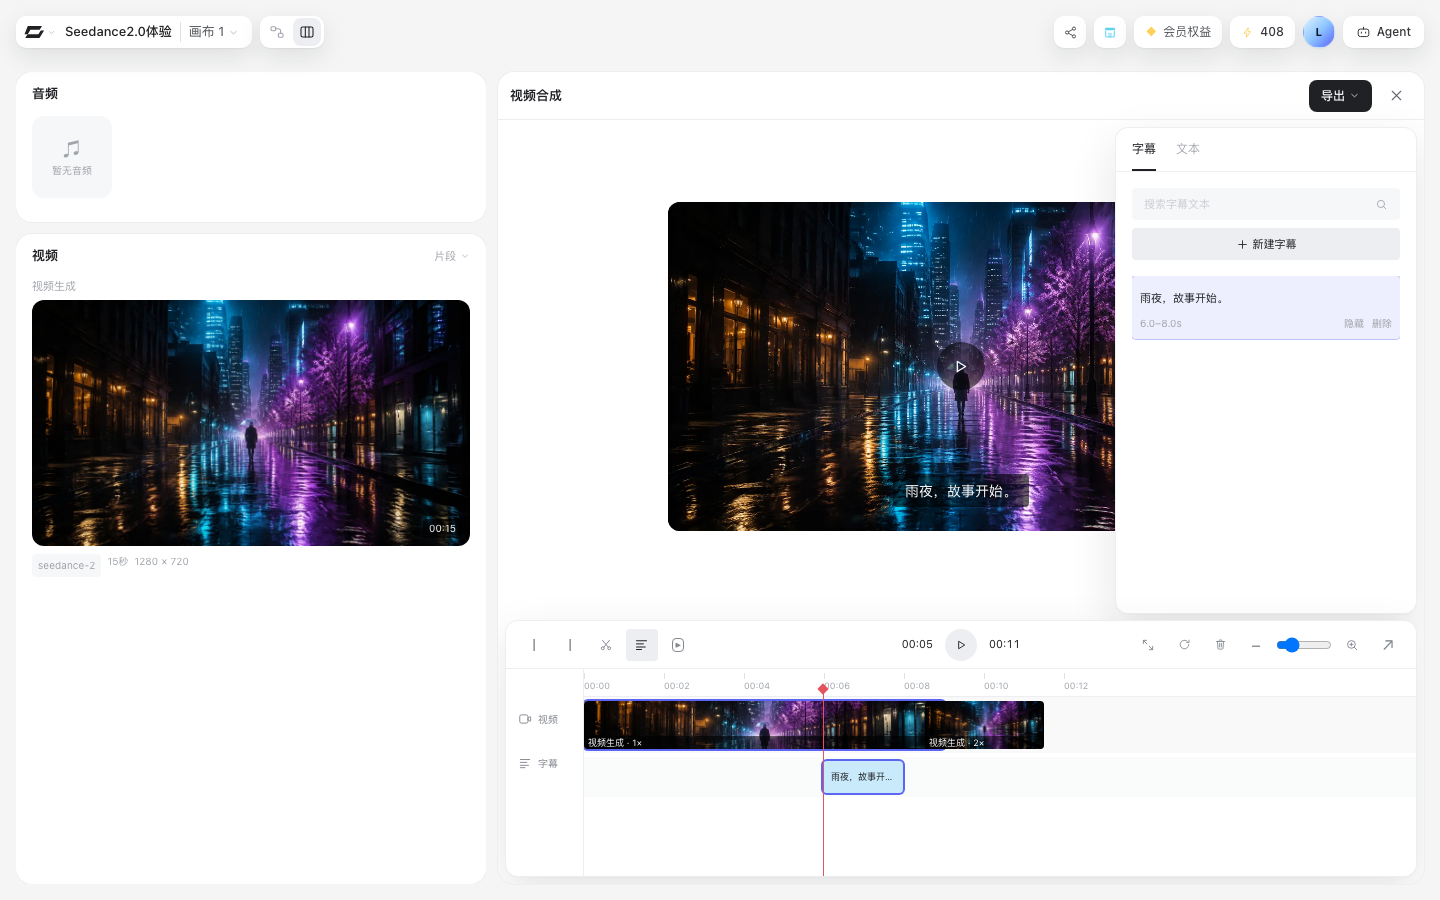
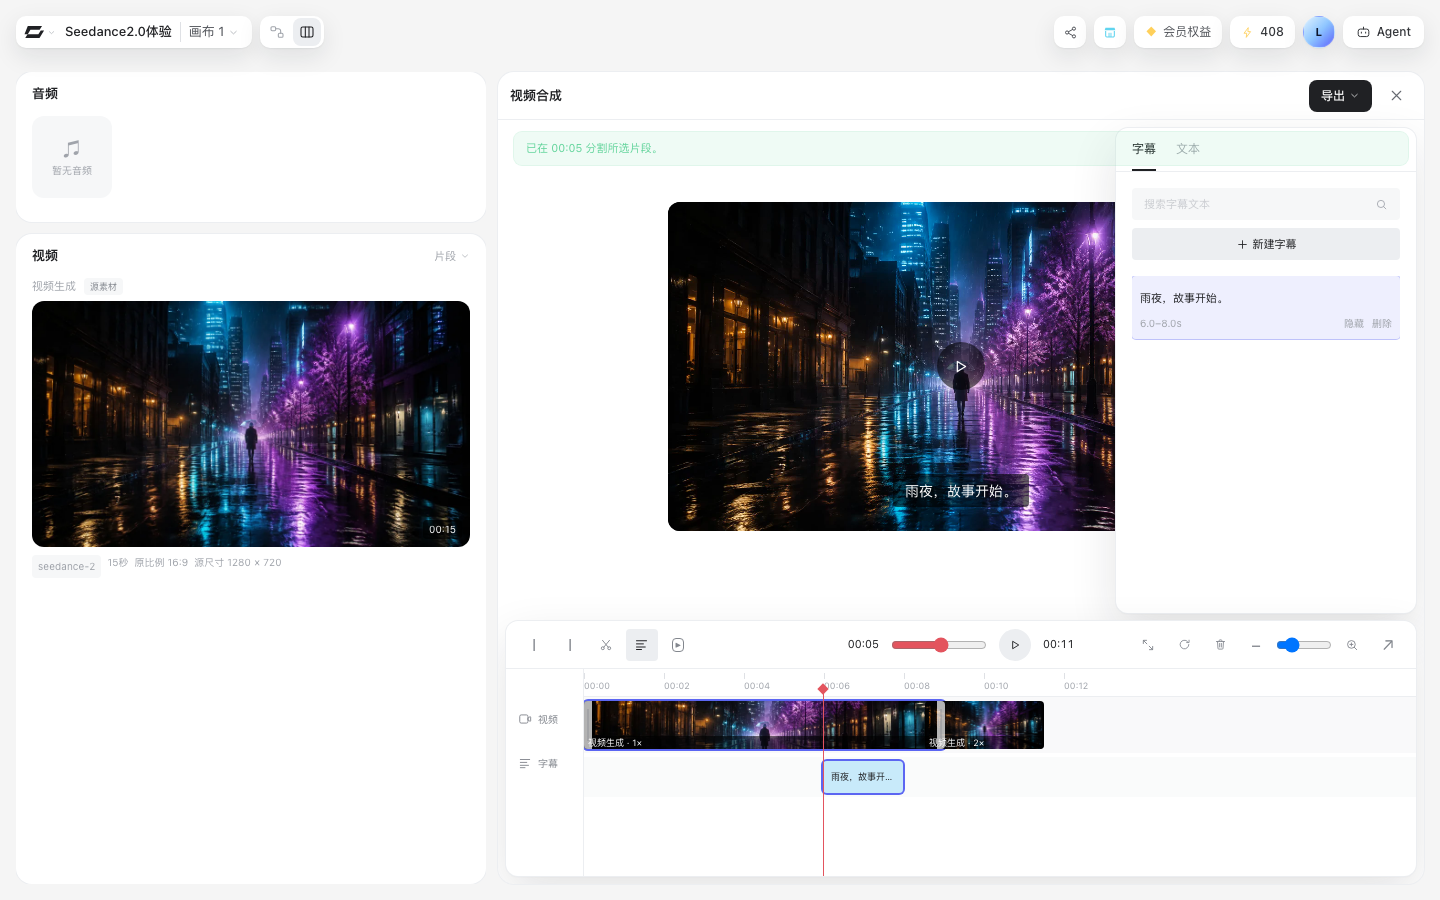
feat: add interactive video trim handles

diff --git a/src/components/storyboard/ClipEditor.tsx b/src/components/storyboard/ClipEditor.tsx
@@ -77,6 +77,12 @@ interface TimelineFeedback {
   message: string
 }
 
+interface TrimPreview {
+  clipId: string
+  inPoint: number
+  outPoint: number
+}
+
 const PX_PER_SECOND = 40
 const TIMELINE_HEIGHT = 255
 const PLAYHEAD_STEP_SECONDS = 0.1
@@ -154,6 +160,31 @@ function compositeNodeOf(document: WorkflowDocument): WorkflowNode | null {
 
 function clipSeconds(clip: CompositeClip) {
   return (clip.outPoint - clip.inPoint) / clip.speed
+}
+
+export type TrimEdge = 'in' | 'out'
+
+/** Convert a timeline drag into source-space trim points. */
+export function trimPointsForDrag(
+  clip: CompositeClip,
+  edge: TrimEdge,
+  deltaPixels: number,
+  pixelsPerSecond: number,
+): Pick<CompositeClip, 'inPoint' | 'outPoint'> {
+  if (!Number.isFinite(deltaPixels) || !Number.isFinite(pixelsPerSecond) || pixelsPerSecond <= 0) {
+    return { inPoint: clip.inPoint, outPoint: clip.outPoint }
+  }
+  const sourceDelta = (deltaPixels / pixelsPerSecond) * clip.speed
+  if (edge === 'in') {
+    return {
+      inPoint: Math.max(0, Math.min(clip.outPoint - MIN_CLIP_SECONDS, clip.inPoint + sourceDelta)),
+      outPoint: clip.outPoint,
+    }
+  }
+  return {
+    inPoint: clip.inPoint,
+    outPoint: Math.max(clip.inPoint + MIN_CLIP_SECONDS, Math.min(clip.durationSeconds, clip.outPoint + sourceDelta)),
+  }
 }
 
 export function playheadValueForKey(current: number, key: string, total: number): number | null {
@@ -275,7 +306,7 @@ export function ClipEditor({
     [allSources],
   )
   const compositeNode = useMemo(() => compositeNodeOf(workflow), [workflow])
-  const timeline = useMemo(
+  const persistedTimeline = useMemo(
     () => readCompositeDocument(compositeNode?.data.extra, allSources),
     [allSources, compositeNode?.data.extra],
   )
@@ -287,8 +318,9 @@ export function ClipEditor({
   const [subtitleTab, setSubtitleTab] = useState<SubtitleTab>('subtitle')
   const [subtitleSearch, setSubtitleSearch] = useState('')
   const [subtitleDrafts, setSubtitleDrafts] = useState<Record<string, string>>({})
-  const [playhead, setPlayhead] = useState(timeline.playheadSeconds)
+  const [playhead, setPlayhead] = useState(persistedTimeline.playheadSeconds)
   const [playing, setPlaying] = useState(false)
+  const [trimPreview, setTrimPreview] = useState<TrimPreview | null>(null)
   const [exportOpen, setExportOpen] = useState(false)
   const [rendering, setRendering] = useState(false)
   const [elapsed, setElapsed] = useState(0)
@@ -302,6 +334,16 @@ export function ClipEditor({
   const trackViewportRef = useRef<HTMLDivElement>(null)
   const exportRef = useRef<HTMLDivElement>(null)
   const aliveRef = useRef(true)
+
+  const timeline = useMemo(() => {
+    if (!trimPreview) return persistedTimeline
+    return {
+      ...persistedTimeline,
+      clips: persistedTimeline.clips.map((clip) => clip.id === trimPreview.clipId
+        ? { ...clip, inPoint: trimPreview.inPoint, outPoint: trimPreview.outPoint }
+        : clip),
+    }
+  }, [persistedTimeline, trimPreview])
 
   const selectedClip = timeline.clips.find((clip) => clip.id === selectedClipId) ?? null
   const selectedClipIndex = selectedClip ? timeline.clips.findIndex((clip) => clip.id === selectedClip.id) : -1
@@ -356,6 +398,7 @@ export function ClipEditor({
   const close = useCallback(() => {
     setPlaying(false)
     setExportOpen(false)
+    setTrimPreview(null)
     void persist(
       (document) => ({ ...document, playheadSeconds: Math.min(compositeDuration(document), playhead) }),
       '保存视频编辑位置',
@@ -560,6 +603,36 @@ export function ClipEditor({
         edge === 'out' ? sourceSeconds : current.outPoint,
       )
     }, edge === 'in' ? '设置片段入点' : '设置片段出点')
+  }
+
+  const previewTrim = (clipId: string, edge: TrimEdge, deltaPixels: number) => {
+    const clip = persistedTimeline.clips.find((item) => item.id === clipId)
+    if (!clip) return
+    const points = trimPointsForDrag(clip, edge, deltaPixels, pixelsPerSecond)
+    setTrimPreview({ clipId, ...points })
+  }
+
+  const finishTrim = () => {
+    const preview = trimPreview
+    setTrimPreview(null)
+    if (!preview) return
+    void persist(
+      (document) => setClipTrim(document, preview.clipId, preview.inPoint, preview.outPoint),
+      '拖拽裁切视频片段',
+    )
+  }
+
+  const nudgeTrim = (clipId: string, edge: TrimEdge, deltaSeconds: number) => {
+    void persist((document) => {
+      const current = document.clips.find((clip) => clip.id === clipId)
+      if (!current) return document
+      return setClipTrim(
+        document,
+        clipId,
+        edge === 'in' ? current.inPoint + deltaSeconds * current.speed : current.inPoint,
+        edge === 'out' ? current.outPoint + deltaSeconds * current.speed : current.outPoint,
+      )
+    }, '键盘调整片段裁切')
   }
 
   const splitSelected = () => {
@@ -879,6 +952,9 @@ export function ClipEditor({
             onSplit={splitSelected}
             onTrimIn={() => trimSelectedAtPlayhead('in')}
             onTrimOut={() => trimSelectedAtPlayhead('out')}
+            onTrimPreview={previewTrim}
+            onTrimEnd={finishTrim}
+            onTrimNudge={nudgeTrim}
             onReorder={(clipId, targetIndex) => void persist((document) => {
               let next = document
               let currentIndex = next.clips.findIndex((clip) => clip.id === clipId)
@@ -1633,6 +1709,9 @@ function TimelinePanel({
   onSplit,
   onTrimIn,
   onTrimOut,
+  onTrimPreview,
+  onTrimEnd,
+  onTrimNudge,
   onReorder,
   onDelete,
   onZoom,
@@ -1660,6 +1739,9 @@ function TimelinePanel({
   onSplit: () => void
   onTrimIn: () => void
   onTrimOut: () => void
+  onTrimPreview: (clipId: string, edge: TrimEdge, deltaPixels: number) => void
+  onTrimEnd: () => void
+  onTrimNudge: (clipId: string, edge: TrimEdge, deltaSeconds: number) => void
   onReorder: (clipId: string, targetIndex: number) => void
   onDelete: () => void
   onZoom: (zoom: number) => void
@@ -1667,9 +1749,39 @@ function TimelinePanel({
   onDrop: (event: DragEvent) => void
 }) {
   const selection = Boolean(selectedClipId || selectedAudioId || selectedSubtitleId)
+  const trimDragRef = useRef<{ clipId: string; edge: TrimEdge; startX: number; pointerId: number } | null>(null)
   const seekAt = (event: MouseEvent<HTMLDivElement>) => {
     const bounds = event.currentTarget.getBoundingClientRect()
     onSeek((event.clientX - bounds.left + event.currentTarget.scrollLeft) / pixelsPerSecond)
+  }
+  const beginTrim = (event: React.PointerEvent<HTMLSpanElement>, clipId: string, edge: TrimEdge) => {
+    event.preventDefault()
+    event.stopPropagation()
+    trimDragRef.current = { clipId, edge, startX: event.clientX, pointerId: event.pointerId }
+    event.currentTarget.setPointerCapture(event.pointerId)
+    onTrimPreview(clipId, edge, 0)
+  }
+  const moveTrim = (event: React.PointerEvent<HTMLSpanElement>) => {
+    const drag = trimDragRef.current
+    if (!drag || drag.pointerId !== event.pointerId) return
+    event.preventDefault()
+    event.stopPropagation()
+    onTrimPreview(drag.clipId, drag.edge, event.clientX - drag.startX)
+  }
+  const endTrim = (event: React.PointerEvent<HTMLSpanElement>) => {
+    const drag = trimDragRef.current
+    if (!drag || drag.pointerId !== event.pointerId) return
+    event.stopPropagation()
+    trimDragRef.current = null
+    if (event.currentTarget.hasPointerCapture(event.pointerId)) event.currentTarget.releasePointerCapture(event.pointerId)
+    onTrimEnd()
+  }
+  const nudgeTrimFromKeyboard = (event: React.KeyboardEvent<HTMLSpanElement>, clipId: string, edge: TrimEdge) => {
+    const direction = event.key === 'ArrowRight' || event.key === 'ArrowUp' ? 1 : event.key === 'ArrowLeft' || event.key === 'ArrowDown' ? -1 : 0
+    if (!direction) return
+    event.preventDefault()
+    event.stopPropagation()
+    onTrimNudge(clipId, edge, direction * 0.1)
   }
   return (
     <section
@@ -1801,7 +1913,7 @@ function TimelinePanel({
                     onSelectClip(clip)
                   }}
                   className={cn(
-                    'absolute top-1 h-12 overflow-hidden rounded ring-2',
+                    'group absolute top-1 h-12 overflow-hidden rounded ring-2',
                     clip.id === selectedClipId ? 'ring-accent' : 'ring-transparent',
                   )}
                   style={{
@@ -1816,6 +1928,32 @@ function TimelinePanel({
                   <span className="absolute inset-x-0 bottom-0 truncate bg-black/55 px-1 text-left text-[9px] text-white">
                     {clip.nodeName} · {clip.speed}×
                   </span>
+                  {(['in', 'out'] as const).map((edge) => (
+                    <span
+                      key={edge}
+                      role="slider"
+                      tabIndex={0}
+                      data-testid={`trim-handle-${edge}-${clip.id}`}
+                      aria-label={`${clip.nodeName}${edge === 'in' ? '入点' : '出点'}`}
+                      aria-valuemin={edge === 'in' ? 0 : clip.inPoint + MIN_CLIP_SECONDS}
+                      aria-valuemax={edge === 'in' ? clip.outPoint - MIN_CLIP_SECONDS : clip.durationSeconds}
+                      aria-valuenow={edge === 'in' ? clip.inPoint : clip.outPoint}
+                      aria-valuetext={`${edge === 'in' ? '入点' : '出点'} ${timeLabel(edge === 'in' ? clip.inPoint : clip.outPoint)}`}
+                      className={cn(
+                        'absolute inset-y-0 z-10 w-2 cursor-ew-resize bg-white/70 opacity-0 shadow-sm transition-opacity group-hover:opacity-100 focus:opacity-100 focus-visible:outline-2 focus-visible:outline-accent',
+                        edge === 'in' ? 'left-0' : 'right-0',
+                        clip.id === selectedClipId && 'opacity-100',
+                      )}
+                      onPointerDown={(event) => beginTrim(event, clip.id, edge)}
+                      onPointerMove={moveTrim}
+                      onPointerUp={endTrim}
+                      onPointerCancel={endTrim}
+                      onKeyDown={(event) => nudgeTrimFromKeyboard(event, clip.id, edge)}
+                      onClick={(event) => event.stopPropagation()}
+                    >
+                      <span className="absolute inset-y-2 left-1/2 w-px -translate-x-1/2 bg-ink-500/70" />
+                    </span>
+                  ))}
                   {clip.transitionAfter && index < timeline.clips.length - 1 && (
                     <span className="absolute right-0 top-0 bg-accent px-1 text-[8px]">◆</span>
                   )}

diff --git a/e2e/video-compositor.spec.ts b/e2e/video-compositor.spec.ts
@@ -210,6 +210,56 @@ test('clip edits persist on the videoComposite node across close and reload', as
   await expect(page.locator('[data-testid^="timeline-clip-"]')).toHaveCount(2)
 })
 
+test('selected clips expose draggable, keyboard-accessible trim handles', async ({ page, request }) => {
+  await openCompositor(page, request)
+  await page
+    .getByTestId('clip-source-video-art_video_01')
+    .getByRole('button', { name: '添加到时间线' })
+    .click()
+
+  const clip = page.locator('[data-testid^="timeline-clip-"]').first()
+  await clip.click()
+  const clipId = (await clip.getAttribute('data-testid'))!.replace('timeline-clip-', '')
+  const inHandle = page.getByTestId(`trim-handle-in-${clipId}`)
+  const outHandle = page.getByTestId(`trim-handle-out-${clipId}`)
+  await expect(inHandle).toHaveAttribute('role', 'slider')
+  await expect(outHandle).toHaveAttribute('aria-valuenow', '15')
+
+  const inBox = await inHandle.boundingBox()
+  expect(inBox).not.toBeNull()
+  if (!inBox) return
+  await page.mouse.move(inBox.x + inBox.width / 2, inBox.y + inBox.height / 2)
+  await page.mouse.down()
+  await page.mouse.move(inBox.x + inBox.width / 2 + 80, inBox.y + inBox.height / 2)
+  await page.mouse.up()
+
+  await expect(inHandle).toHaveAttribute('aria-valuenow', '2')
+  await expect(page.getByRole('spinbutton', { name: '片段入点' })).toHaveValue('2')
+
+  await inHandle.focus()
+  await page.keyboard.press('ArrowLeft')
+  await expect.poll(() => inHandle.getAttribute('aria-valuenow')).toBe('1.9')
+
+  await visualBaseline(page, 'video-compositor-trim-1440x900.png')
+})
+
+test('compositor stacks the source rail above the workspace on compact viewports', async ({ page, request }) => {
+  await page.setViewportSize({ width: 800, height: 900 })
+  await openCompositor(page, request)
+
+  const editor = page.getByTestId('clip-editor')
+  await expect(editor).toHaveCSS('grid-template-columns', '768px')
+  const sourceRail = page.getByTestId('clip-editor-source-rail')
+  const workspace = page.getByTestId('clip-editor-workspace')
+  const sourceBox = await sourceRail.boundingBox()
+  const workspaceBox = await workspace.boundingBox()
+  expect(sourceBox).not.toBeNull()
+  expect(workspaceBox).not.toBeNull()
+  if (!sourceBox || !workspaceBox) return
+  expect(workspaceBox.y).toBeGreaterThan(sourceBox.y + sourceBox.height - 1)
+  expect(workspaceBox.x).toBeCloseTo(sourceBox.x, 0)
+})
+
 test('independent audio supports trim, placement, gain, mute-ready persistence and reload', async ({ page, request }) => {
   await selectScenario(request)
   await addFixtureAudioSource(request)

diff --git a/src/components/storyboard/__tests__/ClipEditor.test.ts b/src/components/storyboard/__tests__/ClipEditor.test.ts
@@ -13,6 +13,7 @@ import {
   sourceAspectRatio,
   sourceAspectRatioLabel,
   splitValidationMessage,
+  trimPointsForDrag,
 } from '../ClipEditor'
 
 function artifact(id: string, kind: Artifact['kind'], width: number | null, height: number | null): Artifact {
@@ -78,6 +79,19 @@ describe('ClipEditor timeline accessibility helpers', () => {
   it('reports when a clip is too short to leave both minimum split sides', () => {
     const document = appendClip(emptyCompositeDocument(), source('short', 0.1))
     expect(splitValidationMessage(document, document.clips[0].id, 0.05)).toContain('太短')
+  })
+
+  it('maps trim-handle drags to source points while preserving a minimum clip duration', () => {
+    const clip = appendClip(emptyCompositeDocument(), source('trim')).clips[0]
+
+    expect(trimPointsForDrag(clip, 'in', 80, 40)).toEqual({ inPoint: 2, outPoint: 10 })
+    expect(trimPointsForDrag({ ...clip, speed: 2 }, 'out', -80, 40)).toEqual({ inPoint: 0, outPoint: 6 })
+    expect(trimPointsForDrag(clip, 'in', -9999, 40)).toEqual({ inPoint: 0, outPoint: 10 })
+    expect(trimPointsForDrag(clip, 'out', 9999, 40)).toEqual({ inPoint: 0, outPoint: 10 })
+    expect(trimPointsForDrag({ ...clip, inPoint: 4, outPoint: 6 }, 'out', -9999, 40)).toEqual({
+      inPoint: 4,
+      outPoint: 4.05,
+    })
   })
 })
 

diff --git a/src/app/globals.css b/src/app/globals.css
@@ -142,6 +142,24 @@ body:has([data-app-shell='authenticated']) {
   background: var(--color-canvas);
 }
 
+/* Keep the compositor usable when the desktop two-column geometry no longer
+ * has enough room for a readable source rail and inspector. */
+@media (max-width: 900px) {
+  [data-video-compositor='open'] {
+    grid-template-columns: minmax(0, 1fr) !important;
+    grid-template-rows: 220px minmax(680px, 1fr);
+    overflow-y: auto;
+  }
+
+  [data-video-compositor='open'] [data-testid='clip-editor-source-rail'] {
+    min-height: 0;
+  }
+
+  [data-video-compositor='open'] [data-testid='clip-editor-workspace'] {
+    min-height: 680px;
+  }
+}
+
 body:has([data-app-shell='editor']) {
   background: #141414;
 }

diff --git a/docs/research/libtv/visual/video-compositor-comparison.md b/docs/research/libtv/visual/video-compositor-comparison.md
@@ -12,6 +12,7 @@
 | 转场库与属性 | [`storyboard-video-editor-transition-library-and-properties.png`](../pages/canvas/screenshots/storyboard-video-editor-transition-library-and-properties.png) | [`libtv-video-compositor-transition-local-1440x900.png`](../../../screenshots/libtv-video-compositor-transition-local-1440x900.png) |
 | 字幕面板与轨道 | [`storyboard-video-editor-subtitle-panel-empty-state.png`](../pages/canvas/screenshots/storyboard-video-editor-subtitle-panel-empty-state.png) | [`libtv-video-compositor-subtitle-local-1440x900.png`](../../../screenshots/libtv-video-compositor-subtitle-local-1440x900.png) |
 | 有效片段时间线 | 官网当前账户没有生成专用素材以继续付费路径 | [`libtv-video-compositor-timeline-local-1440x900.png`](../../../screenshots/libtv-video-compositor-timeline-local-1440x900.png) |
+| 片段裁切与检查器 | 官网当前账户没有生成专用素材以继续付费路径 | [`libtv-video-compositor-trim-local-1440x900.png`](../../../screenshots/libtv-video-compositor-trim-local-1440x900.png) |
 
 ## 几何与层级契约
 
@@ -32,7 +33,7 @@
 
 ## 已实现交互
 
-- 素材按钮添加或拖入；视频片段可选择、播放头定位、设置入/出点、分割、
+- 素材按钮添加或拖入；视频片段可选择、播放头定位、拖拽或键盘调整入/出点、设置入/出点、分割、
   `0.5×/1×/2×` 变速、按钮/拖拽重排、静音和删除；
 - 原生 video 预览与播放头同步，支持空格播放/暂停、回到开始、缩放、适配和全屏；
 - 三种转场为淡入淡出、黑场与白场，保存在前一片段并允许调整 `0.08..2s`；
